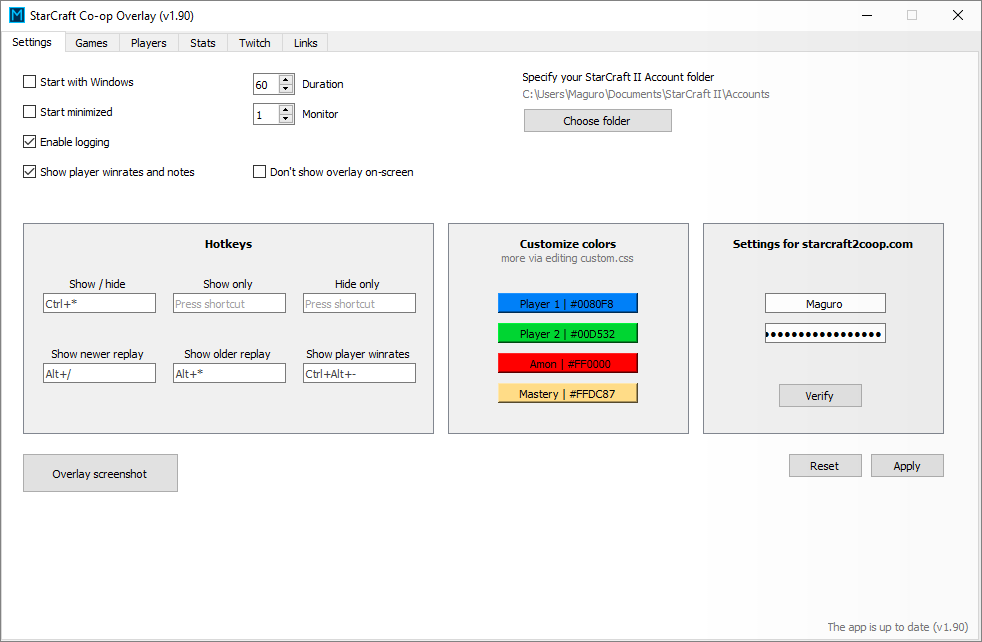
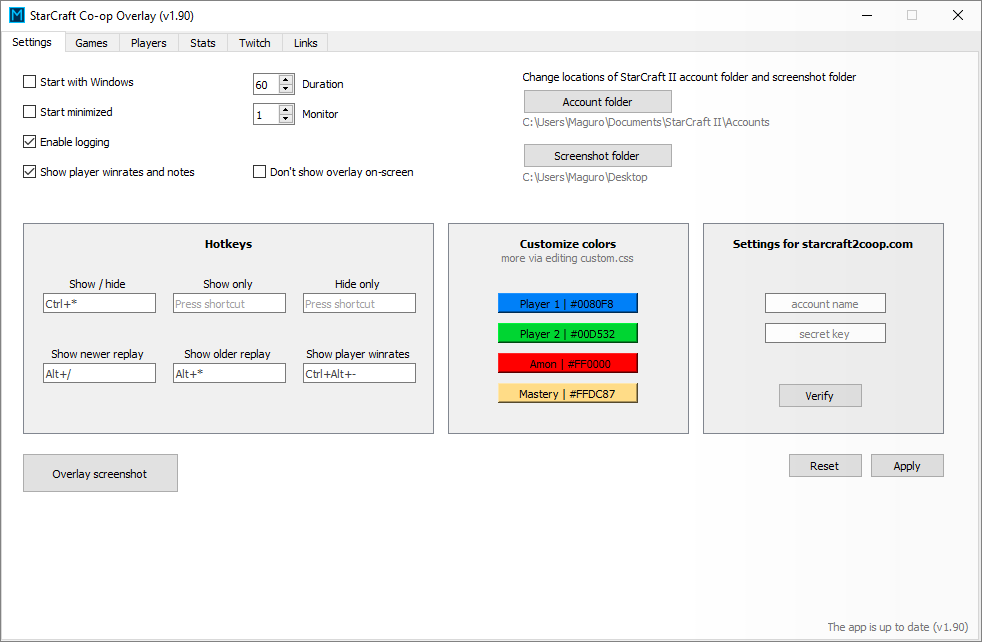
Small tweaks

Changed region(s): [[0.5193, 0.0935, 0.8859, 0.2804], [0.7943, 0.4673, 0.8859, 0.5296]]

diff --git a/SCO.py b/SCO.py
@@ -103,7 +103,7 @@ class UI_TabWidget(object):
         # Replay folder
         self.LA_AccountFolder = QtWidgets.QLabel(self.TAB_Main)
         self.LA_AccountFolder.setGeometry(QtCore.QRect(520, 15, 350, 16))
-        self.LA_AccountFolder.setText("Change locations of StarCraft II Account folder and screenshot folder")
+        self.LA_AccountFolder.setText("Change locations of StarCraft II account folder and screenshot folder")
 
         self.BT_ChooseFolder = QtWidgets.QPushButton(self.TAB_Main)
         self.BT_ChooseFolder.setGeometry(QtCore.QRect(520, 36, 150, 25))
@@ -971,6 +971,10 @@ class UI_TabWidget(object):
         if os.path.isfile(truePath('install.bat')):
             os.remove(truePath('install.bat'))
 
+        # Screenshot folder
+        if self.settings['screenshot_folder'] in {None,''}:
+            self.settings['screenshot_folder'] = os.path.normpath(os.path.join(os.path.expanduser('~'), 'Desktop'))
+
         self.updateUI()
         self.check_for_updates()
 
@@ -992,9 +996,7 @@ class UI_TabWidget(object):
 
         self.manage_keyboard_threads()
 
-        # Screenshot folder
-        if self.settings['screenshot_folder'] in {None,''}:
-            self.settings['screenshot_folder'] = os.path.normpath(os.path.join(os.path.expanduser('~'), 'Desktop'))
+
 
 
     def check_for_updates(self):
@@ -1757,10 +1759,10 @@ class UI_TabWidget(object):
             path = os.path.normpath(os.path.join(self.settings['screenshot_folder'], name))
 
             p.save(path, 'png')
-            
+
             # Files smaller than 10kb consider as empty
             if os.path.getsize(path) < 10000:
-                self.sendInfoMessage(f'Show overlay before taking screenshot', color='red')
+                self.sendInfoMessage(f'Show overlay before taking screenshot!', color='red')
                 os.remove(path)
             else:
                 logger.info(f'Taking screenshot! {path}')
